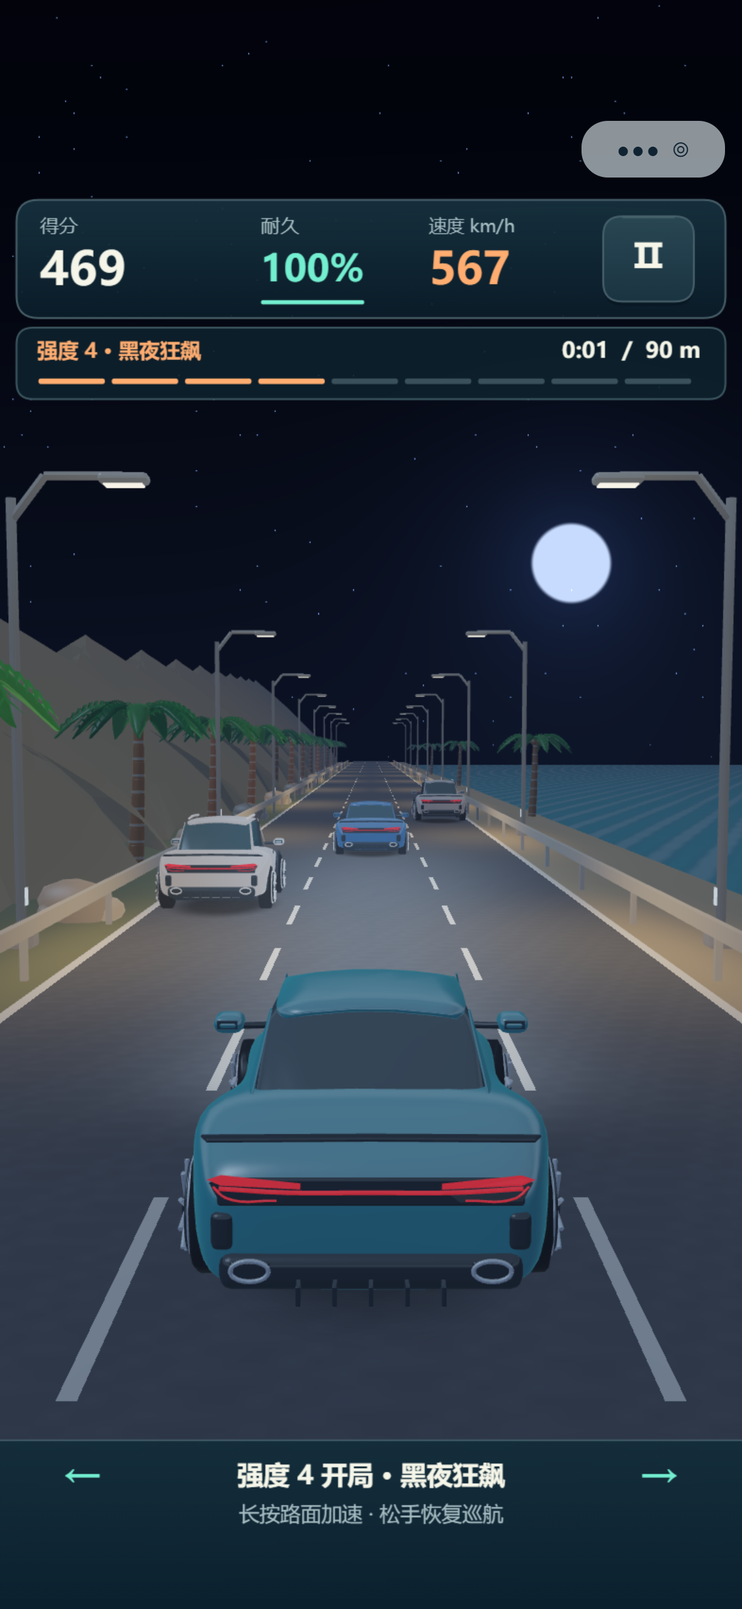
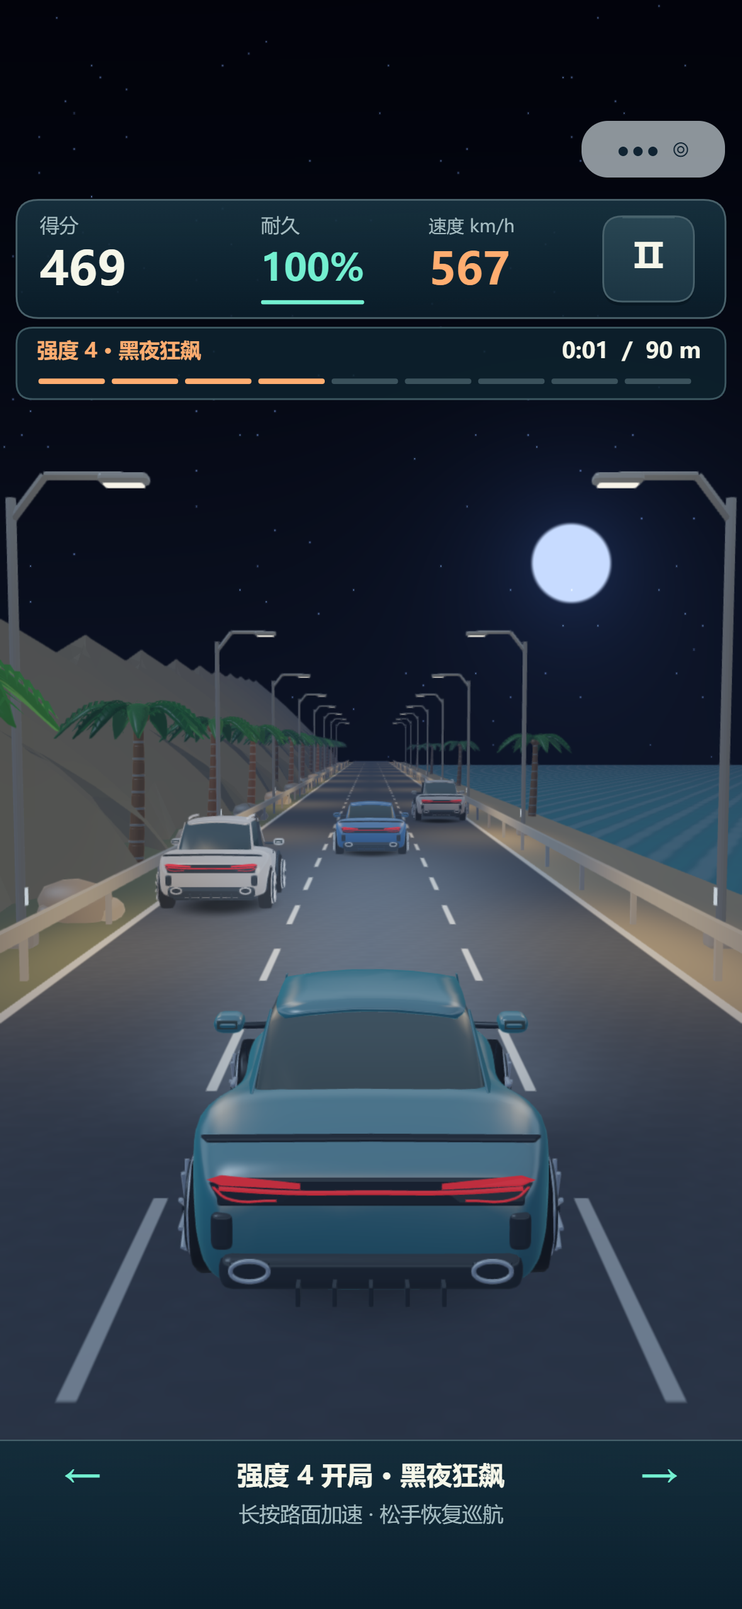
Improve antialiasing and vehicle materials on phones

diff --git a/公路之王/src/scene-renderer.js b/公路之王/src/scene-renderer.js
@@ -12,15 +12,28 @@ function cameraMatrix(eye,target,aspect){
   for(let c=0;c<4;c++)for(let r=0;r<4;r++)for(let i=0;i<4;i++)m[c*4+r]+=p[i*4+r]*v[c*4+i];
   return m;
 }
-const vertex=`attribute vec3 aPosition;attribute vec3 aNormal;uniform mat4 uCamera;uniform mediump vec3 uPosition;uniform mediump vec3 uScale;varying mediump vec3 vWorld;varying mediump vec3 vNormal;
+const vertex=`attribute vec3 aPosition;attribute vec3 aNormal;uniform mat4 uCamera;uniform mediump vec3 uPosition;uniform mediump vec3 uScale;varying highp vec3 vWorld;varying mediump vec3 vNormal;
 void main(){vWorld=aPosition*uScale+uPosition;vNormal=normalize(aNormal/uScale);gl_Position=uCamera*vec4(vWorld,1.0);}`;
-const fragment=`precision highp float;varying mediump vec3 vWorld;varying mediump vec3 vNormal;uniform vec3 uEye;uniform vec3 uColor;uniform mediump vec3 uPosition;uniform mediump vec3 uScale;uniform float uMetal;uniform float uRough;uniform float uEmission;uniform float uKind;uniform float uTravel;uniform float uNight;uniform float uDawn;uniform float uFog;uniform float uPlayerX;
+const fragment=`precision highp float;varying highp vec3 vWorld;varying mediump vec3 vNormal;uniform vec3 uEye;uniform vec3 uColor;uniform mediump vec3 uPosition;uniform mediump vec3 uScale;uniform float uMetal;uniform float uRough;uniform float uEmission;uniform float uKind;uniform float uTravel;uniform float uNight;uniform float uDawn;uniform float uFog;uniform float uPlayerX;uniform float uSurface;
 float hash(vec2 p){return fract(sin(dot(p,vec2(127.1,311.7)))*43758.5453);}
 float noise(vec2 p){vec2 i=floor(p),f=fract(p);f=f*f*(3.-2.*f);return mix(mix(hash(i),hash(i+vec2(1.,0.)),f.x),mix(hash(i+vec2(0.,1.)),hash(i+vec2(1.,1.)),f.x),f.y);}
 void main(){vec3 n=normalize(vNormal),view=normalize(uEye-vWorld),light=normalize(vec3(-.6,.85,.3));vec3 base=uColor;float rough=uRough,metal=uMetal;float alpha=1.;
-if(uKind>0.5&&uKind<1.5){float grain=mix(.5,noise(vec2(vWorld.x*7.,(vWorld.z+uTravel)*7.)),1.-smoothstep(12.,45.,length(uEye-vWorld)));base=vec3(.105,.115,.125)*(.94+grain*.10);float lane=abs(abs(vWorld.x)-1.55);float dash=step(3.,mod(-vWorld.z-uTravel,6.));if(lane<.055&&dash>.5||abs(vWorld.x)>4.48)base=vec3(.84,.82,.71);rough=.9;}
+if(uKind>0.5&&uKind<1.5){
+float dist=length(uEye-vWorld);
+float grain=mix(.5,noise(vec2(vWorld.x*7.,(vWorld.z+uTravel)*7.)),1.-smoothstep(12.,45.,dist));
+base=vec3(.080,.095,.112)*(.96+grain*.08);
+float edgeWidth=max(.009,dist*.00045),dashWidth=max(.03,dist*.003);
+#ifdef HAS_DERIVATIVES
+edgeWidth=max(edgeWidth,fwidth(vWorld.x)*.75);dashWidth=max(dashWidth,fwidth(vWorld.z)*.75);
+#endif
+float lane=1.-smoothstep(.052-edgeWidth,.052+edgeWidth,abs(abs(vWorld.x)-1.55));
+float phase=mod(-vWorld.z-uTravel,6.);
+float dash=smoothstep(3.-dashWidth,3.+dashWidth,phase)*(1.-smoothstep(6.-dashWidth,6.,phase));
+float outer=smoothstep(4.48-edgeWidth,4.48+edgeWidth,abs(vWorld.x));
+base=mix(base,vec3(.79,.80,.72),max(lane*dash,outer));rough=.9;
+}
 if(uKind>1.5&&uKind<2.5){float wave=sin(vWorld.x*1.8+uTravel*.03)*sin(vWorld.z*.8+uTravel*.06);n=normalize(vec3(wave*.08,1.,cos(vWorld.x*3.+vWorld.z)*.11));base=vec3(.025,.19,.24);rough=.16;metal=.35;}
-if(uKind>2.5&&uKind<3.5){float r=length((vWorld.xz-uPosition.xz)/uScale.xz);gl_FragColor=vec4(.015,.02,.025,.38*(1.-smoothstep(.45,1.,r)));return;}
+if(uKind>2.5&&uKind<3.5){float r=length((vWorld.xz-uPosition.xz)/uScale.xz);gl_FragColor=vec4(.008,.014,.022,.54*(1.-smoothstep(.25,1.,r)));return;}
 vec3 h=normalize(light+view);float diffuse=max(dot(n,light),0.);float spec=pow(max(dot(n,h),0.),mix(110.,7.,rough));float fresnel=pow(1.-max(dot(n,view),0.),5.);
 vec3 ambient=mix(vec3(.14,.19,.24),vec3(.56,.69,.76),n.y*.5+.5);
 vec3 color=base*(ambient*.75+vec3(1.,.73,.44)*diffuse*.85)+mix(vec3(.45),base,metal)*spec*(.3+metal*.8);
@@ -44,6 +57,30 @@ nightColor+=vec3(.19,.29,.40)*band*metal*.22;
 vec3 dawnColor=base*(vec3(.43,.53,.59)+vec3(.95,.72,.50)*diffuse*.55)+vec3(.55,.66,.72)*spec*(.22+metal*.45);
 dawnColor+=environment*mix(vec3(.04),base,metal)*(.12+fresnel*.4)+base*vec3(.75,.83,1.)*beam*.18;
 color=mix(mix(color,dawnColor,uDawn),nightColor,uNight)+base*uEmission*(uKind>4.5?(uNight+uDawn*.18)*1.8:mix(.65,1.8,uNight));
+// Separate lacquer and glazing instead of lighting every surface like matte paint.
+if(uSurface>.5){
+ float nv=max(dot(n,view),0.),f=pow(1.-nv,5.);
+ float localHeight=(vWorld.y-uPosition.y)/uScale.y;
+ vec3 envDay=mix(vec3(.10,.115,.13),vec3(.48,.65,.78),smoothstep(-.20,.65,reflection.y));
+ vec3 envNight=mix(vec3(.018,.026,.038),vec3(.16,.25,.36),smoothstep(-.20,.65,reflection.y));
+ vec3 env=mix(envDay,envNight,uNight);
+ float skyRibbon=exp(-pow((reflection.y-.26)/.10,2.));
+ env+=mix(vec3(.52,.53,.48),vec3(.16,.23,.29),uNight)*skyRibbon;
+ if(uSurface>1.5){
+  float upperPane=smoothstep(.95,1.6,localHeight);
+  vec3 glassSky=mix(vec3(.21,.34,.43),vec3(.055,.11,.17),uNight);
+  color=base*.22+env*(.10+f*.35)+glassSky*(.04+upperPane*.20)+vec3(.6,.72,.8)*spec*.22;
+ }else{
+  float coat=pow(max(dot(n,h),0.),96.);
+  color=color*.88+env*(.055+f*.34)+mix(vec3(.95,.82,.64),vec3(.34,.47,.61),uNight)*coat*.3;
+  color+=base*lampPool*.16*uNight;
+ }
+ float nearestLamp=vWorld.z-(mod(vWorld.z-mod(uTravel,28.)-10.+14.,28.)-14.);
+ vec3 lampLeft=normalize(vec3(-5.8,6.2,nearestLamp)-vWorld),lampRight=normalize(vec3(5.8,6.2,nearestLamp)-vWorld);
+ float lampHighlight=pow(max(dot(n,normalize(lampLeft+view)),0.),64.)+pow(max(dot(n,normalize(lampRight+view)),0.),64.);
+ color+=vec3(1.,.82,.55)*lampHighlight*uNight*.32;
+ color*=mix(.67,1.,smoothstep(.15,.85,localHeight));
+}
 float distanceToEye=length(uEye-vWorld);
 // Depth fog leaves the first fourteen metres clear and gathers low over the road.
 float lowMist=exp(-max(vWorld.y,0.)*.08);
@@ -66,6 +103,26 @@ float dawnSun=(1.-smoothstep(.030,.039,length(dawnDelta)))*.65;
 dawn=mix(dawn,vec3(1.,.91,.72),dawnSun);
 gl_FragColor=vec4(mix(mix(c,dawn,uDawn),night,uNight),1.);}`;
 
+
+// Edge-only FXAA runs after native MSAA; the Canvas HUD is composited afterwards.
+const aaFragment=`precision highp float;varying vec2 vUv;uniform sampler2D uScene;uniform vec2 uTexel;
+void main(){
+ vec3 rgbM=texture2D(uScene,vUv).rgb;vec3 weights=vec3(.299,.587,.114);
+ float m=dot(rgbM,weights);
+ float nw=dot(texture2D(uScene,vUv+vec2(-1.,1.)*uTexel).rgb,weights);
+ float ne=dot(texture2D(uScene,vUv+vec2(1.,1.)*uTexel).rgb,weights);
+ float sw=dot(texture2D(uScene,vUv+vec2(-1.,-1.)*uTexel).rgb,weights);
+ float se=dot(texture2D(uScene,vUv+vec2(1.,-1.)*uTexel).rgb,weights);
+ float lo=min(m,min(min(nw,ne),min(sw,se))),hi=max(m,max(max(nw,ne),max(sw,se)));
+ if(hi-lo<max(.035,hi*.12)){gl_FragColor=vec4(rgbM,1.);return;}
+ vec2 dir=vec2(-((nw+ne)-(sw+se)),(nw+sw)-(ne+se));
+ float reduce=max((nw+ne+sw+se)*.03125,.0078125);
+ dir=clamp(dir/(min(abs(dir.x),abs(dir.y))+reduce),vec2(-4.),vec2(4.))*uTexel;
+ vec3 a=.5*(texture2D(uScene,vUv-dir/6.).rgb+texture2D(uScene,vUv+dir/6.).rgb);
+ vec3 b=a*.5+.25*(texture2D(uScene,vUv-dir*.5).rgb+texture2D(uScene,vUv+dir*.5).rgb);
+ float l=dot(b,weights);gl_FragColor=vec4(l<lo||l>hi?a:b,1.);
+}`;
+
 function atmosphere(game){
   const clear={night:0,dawn:0,fog:0};
   if(game.mode==='menu'||!game.difficulty)return clear;
@@ -87,9 +144,14 @@ class SceneRenderer{
       this.canvas=p.createRenderCanvas();this.resizeBuffer();
       const gl=this.gl=this.canvas.getContext('webgl',{alpha:false,antialias:true,preserveDrawingBuffer:true});
       if(!gl)throw new Error('WebGL unavailable');
+      this.maxRenderSize=Math.min(gl.getParameter(gl.MAX_TEXTURE_SIZE),gl.getParameter(gl.MAX_RENDERBUFFER_SIZE));this.resizeBuffer();
       const supportsHigh=gl.getShaderPrecisionFormat(gl.FRAGMENT_SHADER,gl.HIGH_FLOAT).precision>0;
-      this.program=this.programFor(vertex,supportsHigh?fragment:fragment.replace('precision highp float','precision mediump float'));this.sky=this.programFor(skyVertex,skyFragment);
-      this.locations={};for(const name of['uCamera','uPosition','uScale','uColor','uEye','uRough','uMetal','uEmission','uKind','uTravel','uNight','uDawn','uFog','uPlayerX'])this.locations[name]=gl.getUniformLocation(this.program,name);
+      const precision=source=>supportsHigh?source:source.replace(/highp/g,'mediump');
+      this.derivativeAA=!!gl.getExtension('OES_standard_derivatives');
+      const materialSource=(this.derivativeAA?'#extension GL_OES_standard_derivatives : enable\n#define HAS_DERIVATIVES\n':'')+fragment;
+      this.program=this.programFor(precision(vertex),precision(materialSource));this.sky=this.programFor(skyVertex,skyFragment);
+      try{this.aaProgram=this.programFor(skyVertex,precision(aaFragment));this.aaTexture=gl.createTexture();}catch(error){this.aaError=String(error);this.aaProgram=null;}
+      this.locations={};for(const name of['uCamera','uPosition','uScale','uColor','uEye','uRough','uMetal','uEmission','uKind','uTravel','uNight','uDawn','uFog','uPlayerX','uSurface'])this.locations[name]=gl.getUniformLocation(this.program,name);
       this.attributes={aPosition:gl.getAttribLocation(this.program,'aPosition'),aNormal:gl.getAttribLocation(this.program,'aNormal')};
       this.skyBuffer=gl.createBuffer();gl.bindBuffer(gl.ARRAY_BUFFER,this.skyBuffer);gl.bufferData(gl.ARRAY_BUFFER,new Float32Array([-1,-1,1,-1,-1,1,-1,1,1,-1,1,1]),gl.STATIC_DRAW);
       const {manifest,binary}=await p.loadSceneData();this.models={};
@@ -104,8 +166,9 @@ class SceneRenderer{
   setView(width,height,topInset=0){this.viewWidth=width;this.viewHeight=height;this.topInset=topInset;if(this.canvas)this.resizeBuffer();}
   resizeBuffer(){
     const p=this.platform,aspect=this.viewWidth/this.viewHeight;
-    // Match phone backing pixels, with a 1.5 MP budget for mobile fill-rate.
-    const width=Math.max(540,Math.min(864,(p.width||540)*(p.ratio||1),Math.sqrt(1500000*aspect)));
+    // Match phone backing pixels, with a 2 MP budget for mobile fill-rate.
+    const limit=this.maxRenderSize||4096;
+    const width=Math.min(1080,Math.max(540,(p.width||540)*(p.ratio||1)),Math.sqrt(2000000*aspect),limit,limit*aspect);
     this.canvas.width=Math.round(width);this.canvas.height=Math.round(width/aspect);
   }
   programFor(vs,fs){const g=this.gl,program=g.createProgram();for(const [type,source]of[[g.VERTEX_SHADER,vs],[g.FRAGMENT_SHADER,fs]]){const s=g.createShader(type);g.shaderSource(s,source);g.compileShader(s);if(!g.getShaderParameter(s,g.COMPILE_STATUS))throw new Error(g.getShaderInfoLog(s));g.attachShader(program,s);}g.linkProgram(program);if(!g.getProgramParameter(program,g.LINK_STATUS))throw new Error(g.getProgramInfoLog(program));return program;}
@@ -114,15 +177,32 @@ class SceneRenderer{
   boxBuffer(){const vertices=[];for(const [n,u,v]of[[[1,0,0],[0,1,0],[0,0,1]],[[-1,0,0],[0,1,0],[0,0,-1]],[[0,1,0],[1,0,0],[0,0,-1]],[[0,-1,0],[1,0,0],[0,0,1]],[[0,0,1],[1,0,0],[0,1,0]],[[0,0,-1],[-1,0,0],[0,1,0]]]){const point=(a,b)=>n.map((x,i)=>x*.5+u[i]*a*.5+v[i]*b*.5);for(const[a,b]of[[-1,-1],[1,-1],[-1,1],[-1,1],[1,-1],[1,1]])vertices.push(...point(a,b),...n);}return this.buffer(new Float32Array(vertices));}
   mountainBuffer(){const vertices=[],rings=10,segments=20;const point=(j,i)=>{const t=j/rings,angle=i/segments*Math.PI*2,r=1-t;return[Math.cos(angle)*r*(1+.13*Math.sin(i*4.13)),Math.pow(t,.7)*(1+.12*Math.sin(i*2.1)),Math.sin(angle)*r];};for(let j=0;j<rings;j++)for(let i=0;i<segments;i++){const a=point(j,i),b=point(j,i+1),c=point(j+1,i),d=point(j+1,i+1);for(const tri of[[a,b,c],[c,b,d]]){const n=normalize(cross(tri[1].map((v,k)=>v-tri[0][k]),tri[2].map((v,k)=>v-tri[0][k])));for(const p of tri)vertices.push(...p,...n);}}return this.buffer(new Float32Array(vertices));}
   uniform(name,type,value){const g=this.gl,loc=this.locations[name];if(type==='vec')g.uniform3fv(loc,value);else g.uniform1f(loc,value);}
-  draw(batch,position,scale=[1,1,1],color=null,kind=0){const g=this.gl,m=batch.material;g.bindBuffer(g.ARRAY_BUFFER,batch.buffer);for(const[name,size,offset]of[['aPosition',3,0],['aNormal',3,12]]){const l=this.attributes[name];g.enableVertexAttribArray(l);g.vertexAttribPointer(l,size,g.FLOAT,false,24,offset);}this.uniform('uPosition','vec',position);this.uniform('uScale','vec',scale);this.uniform('uColor','vec',color||m.color||[.4,.4,.4]);this.uniform('uRough','float',m.rough==null?.7:m.rough);this.uniform('uMetal','float',m.metal||0);this.uniform('uEmission','float',m.emission||0);this.uniform('uKind','float',kind);g.drawArrays(g.TRIANGLES,0,batch.count);}
+  draw(batch,position,scale=[1,1,1],color=null,kind=0){const g=this.gl,m=batch.material;g.bindBuffer(g.ARRAY_BUFFER,batch.buffer);for(const[name,size,offset]of[['aPosition',3,0],['aNormal',3,12]]){const l=this.attributes[name];g.enableVertexAttribArray(l);g.vertexAttribPointer(l,size,g.FLOAT,false,24,offset);}this.uniform('uPosition','vec',position);this.uniform('uScale','vec',scale);this.uniform('uColor','vec',color||m.color||[.4,.4,.4]);this.uniform('uRough','float',m.rough==null?.7:m.rough);this.uniform('uMetal','float',m.metal||0);this.uniform('uEmission','float',m.emission||0);this.uniform('uKind','float',kind);this.uniform('uSurface','float',m.paint?1:/glass/i.test(m.name||'')?2:0);g.drawArrays(g.TRIANGLES,0,batch.count);}
   model(name,position,color=null,scale=1){for(const b of this.models[name]||[])this.draw(b,position,[scale,scale,scale],b.material.paint?color:null);}
+  antialias(){
+    if(!this.aaProgram||!this.aaTexture)return;
+    const g=this.gl,w=this.canvas.width,h=this.canvas.height;
+    g.activeTexture(g.TEXTURE0);g.bindTexture(g.TEXTURE_2D,this.aaTexture);
+    if(this.aaWidth!==w||this.aaHeight!==h){
+      g.texParameteri(g.TEXTURE_2D,g.TEXTURE_MIN_FILTER,g.LINEAR);g.texParameteri(g.TEXTURE_2D,g.TEXTURE_MAG_FILTER,g.LINEAR);
+      g.texParameteri(g.TEXTURE_2D,g.TEXTURE_WRAP_S,g.CLAMP_TO_EDGE);g.texParameteri(g.TEXTURE_2D,g.TEXTURE_WRAP_T,g.CLAMP_TO_EDGE);
+      // The source canvas is opaque (RGB); copy formats must agree in WebGL 1.
+      g.texImage2D(g.TEXTURE_2D,0,g.RGB,w,h,0,g.RGB,g.UNSIGNED_BYTE,null);
+      if(g.getError()!==g.NO_ERROR){this.aaError='Unable to allocate antialias texture';g.deleteTexture(this.aaTexture);this.aaTexture=null;return;}
+      this.aaWidth=w;this.aaHeight=h;
+    }
+    g.copyTexSubImage2D(g.TEXTURE_2D,0,0,0,0,0,w,h);
+    g.disable(g.DEPTH_TEST);g.disable(g.BLEND);g.useProgram(this.aaProgram);g.bindBuffer(g.ARRAY_BUFFER,this.skyBuffer);
+    const a=g.getAttribLocation(this.aaProgram,'aPosition');g.enableVertexAttribArray(a);g.vertexAttribPointer(a,2,g.FLOAT,false,0,0);
+    g.uniform1i(g.getUniformLocation(this.aaProgram,'uScene'),0);g.uniform2f(g.getUniformLocation(this.aaProgram,'uTexel'),1/w,1/h);g.drawArrays(g.TRIANGLES,0,6);
+  }
   project(point){const m=this.camera;if(!m)return null;const clip=[0,0,0,0];for(let r=0;r<4;r++)clip[r]=m[r]*point[0]+m[4+r]*point[1]+m[8+r]*point[2]+m[12+r];if(clip[3]<=0)return null;return{x:(clip[0]/clip[3]+1)*this.viewWidth/2,y:(1-clip[1]/clip[3])*this.viewHeight/2-this.topInset};}
   render(game,clock){
     if(this.status!=='ready')return false;const g=this.gl,menu=game.mode==='menu',travel=menu?clock*9:game.distance;
     const weather=atmosphere(game),night=this.night=weather.night;this.dawn=weather.dawn;this.fog=weather.fog;
     const follow=game.playerX*2.4,eye=[follow,3.3,9.3],target=[follow,1.05,-15];
     g.viewport(0,0,this.canvas.width,this.canvas.height);g.clearColor(.2,.3,.4,1);g.clear(g.COLOR_BUFFER_BIT|g.DEPTH_BUFFER_BIT);g.disable(g.DEPTH_TEST);g.useProgram(this.sky);g.bindBuffer(g.ARRAY_BUFFER,this.skyBuffer);const a=g.getAttribLocation(this.sky,'aPosition');g.enableVertexAttribArray(a);g.vertexAttribPointer(a,2,g.FLOAT,false,0,0);g.uniform1f(g.getUniformLocation(this.sky,'uAspect'),this.viewWidth/this.viewHeight);g.uniform1f(g.getUniformLocation(this.sky,'uNight'),night);g.uniform1f(g.getUniformLocation(this.sky,'uDawn'),weather.dawn);g.drawArrays(g.TRIANGLES,0,6);
-    g.enable(g.DEPTH_TEST);g.depthFunc(g.LEQUAL);g.disable(g.CULL_FACE);g.useProgram(this.program);this.camera=cameraMatrix(eye,target,this.viewWidth/this.viewHeight);g.uniformMatrix4fv(g.getUniformLocation(this.program,'uCamera'),false,this.camera);this.uniform('uEye','vec',eye);this.uniform('uTravel','float',travel);
+    g.enable(g.DEPTH_TEST);g.depthFunc(g.LEQUAL);g.disable(g.CULL_FACE);g.useProgram(this.program);this.camera=cameraMatrix(eye,target,this.viewWidth/this.viewHeight);g.uniformMatrix4fv(g.getUniformLocation(this.program,'uCamera'),false,this.camera);this.uniform('uEye','vec',eye);this.uniform('uTravel','float',travel%252);
     this.uniform('uNight','float',night);this.uniform('uDawn','float',weather.dawn);this.uniform('uFog','float',weather.fog);this.uniform('uPlayerX','float',game.playerX*3.1);
     this.draw(this.ground,[70,-.6,-120],[65,1,190],[.025,.18,.25],2);this.draw(this.ground,[-18,-.08,-130],[14,1,200],[.19,.20,.105]);this.draw(this.ground,[6.6,-.07,-130],[2,1,200],[.40,.33,.21]);this.draw(this.ground,[0,0,-140],[4.65,1,210],null,1);
     for(let i=0;i<11;i++)this.draw(this.mountain,[-17-i*.9,0,-25-i*26],[11+i*.6,8+i*.9,22],[.28,.245,.16]);
@@ -136,6 +216,7 @@ class SceneRenderer{
     g.depthMask(true);g.disable(g.BLEND);
     for(const car of cars){if(car.z< -5||car.z>180)continue;const x=car.x*3.1,z=-car.z;this.model(car.kind==='barrier'?'barrier':car.threat?'player':car.id%2?'suv':'player',[x,.035,z],car.threat?[.76,.18,.035]:car.id%2?[.48,.51,.53]:[.035,.12,.30]);}
     if(!menu)this.model('player',[game.playerX*3.1,.035,0],[.012,.36,.41]);
+    this.antialias();
     return true;
   }
 }

diff --git a/tests/platform.test.js b/tests/platform.test.js
@@ -40,10 +40,10 @@ test('missing native scene file rejects instead of returning empty geometry',asy
   await assert.rejects(platform.loadSceneData(),/missing scene/);
 });
 
-test('Douyin canvas uses CSS dimensions, caps backing scale at two and respects safe area', () => {
+test('Douyin canvas uses CSS dimensions, caps backing scale at three and respects safe area', () => {
   const { platform, canvas } = fixture();
-  assert.equal(platform.width, 390); assert.equal(platform.height, 844); assert.equal(platform.ratio, 2);
-  assert.equal(canvas.width, 780); assert.equal(canvas.height, 1688);
+  assert.equal(platform.width, 390); assert.equal(platform.height, 844); assert.equal(platform.ratio, 3);
+  assert.equal(canvas.width, 1170); assert.equal(canvas.height, 2532);
   assert.equal(platform.top, 47); assert.equal(platform.bottom, 34);
   const fallback = fixture({ windowWidth: 0, windowHeight: 0, screenWidth: 375, screenHeight: 667, pixelRatio: 1, safeArea: undefined }).platform;
   assert.equal(fallback.width, 375); assert.equal(fallback.height, 667);

diff --git a/tests/mobile-layout.test.js b/tests/mobile-layout.test.js
@@ -11,9 +11,9 @@ test('tall phone uses safe-area top and bottom with working bottom-area gestures
  a.touchStart(event(270,y));a.update(.35);assert.equal(a.game.throttle,true);a.touchEnd(event(270,y));assert.equal(a.game.throttle,false);
 });
 test('render buffer follows phone pixels and retains a mobile pixel budget',()=>{
- for(const [width,height,ratio]of[[393,852,2],[430,932,3],[768,1024,2]]){
+ for(const [width,height,ratio]of[[393,852,3],[430,932,3],[768,1024,2]]){
   const s=new Scene({width,height,ratio});s.canvas={};s.setView(540,height/width*540,50);
-  assert.ok(s.canvas.width>540);assert.ok(s.canvas.width<=864);assert.ok(s.canvas.width*s.canvas.height<1502000);
+  assert.ok(s.canvas.width>540);assert.ok(s.canvas.width<=1080);assert.ok(s.canvas.width*s.canvas.height<2002000);
   assert.ok(Math.abs(s.canvas.width/s.canvas.height-width/height)<.002);
  }
 });

diff --git a/公路之王/src/platform.js b/公路之王/src/platform.js
@@ -10,7 +10,7 @@ module.exports = function createPlatform(api) {
   const canvas = api.createCanvas(), info = api.getSystemInfoSync();
   const width = info.windowWidth || info.screenWidth || 375;
   const height = info.windowHeight || info.screenHeight || 667;
-  const ratio = Math.min(info.pixelRatio || 1, 2);
+  const ratio = Math.min(info.pixelRatio || 1, 3);
   canvas.width = Math.round(width * ratio); canvas.height = Math.round(height * ratio);
   const safe = info.safeArea || {top:0,bottom:height};
   let top=Math.max(30,safe.top||0);

diff --git a/preview/browser-platform.js b/preview/browser-platform.js
@@ -5,7 +5,7 @@
   const phone = window.innerWidth <= 480;
   const width = phone ? window.innerWidth : Math.min(395, window.innerWidth - 32);
   const height = phone ? window.innerHeight : Math.max(480, Math.min(852, window.innerHeight - 64));
-  const ratio = Math.min(window.devicePixelRatio || 1, 2);
+  const ratio = Math.min(window.devicePixelRatio || 1, 3);
   canvas.style.width = width + 'px';
   canvas.style.height = height + 'px';
   canvas.width = Math.round(width * ratio);

diff --git a/公路之王/src/difficulty-config.js b/公路之王/src/difficulty-config.js
@@ -17,7 +17,7 @@
 // | `maxActiveObstacles` | 同时存在的前方有效障碍上限，整数，至少 2
 module.exports={
   // 开局强度：1–9。4/5 直接黑夜，6–9 直接清晨雾景。
-  "startTier":1,
+  "startTier":2,
   "stages": [
     {
       "label": "轻松起步",

diff --git a/tools/package_douyin_demo.py b/tools/package_douyin_demo.py
@@ -103,7 +103,7 @@ report = {
     'files':names,
     'zipIntegrity':'passed',
     'platform':'Douyin native WebGL 3D scene with Blender geometry and Canvas 2D HUD',
-    'verification':'74 Node tests; full-window phone rendering, capsule-safe compact HUD, DPR-aware buffer, night reflections, bottom gestures and low-precision shader fallback verified; nine configurable stages, night tiers 4–5 and dawn fog tiers 6–9, adjustable density, gradual transitions, high-speed visible obstacles and two-size WebGL dawn rendering verified; configurable starting tiers, zeroed run statistics and direct tier-four night start verified; configurable tier-four night transition, Blender streetlamp and two-size WebGL night scene verified; pulse skill removed; former skill area swipe/hold and two-size driving UI checks; including randomized merge completion, direction, warning timing and short reaction distance checks; six seeded 120-second runs of the shipped difficulty cliff (easy tutorial, hard tier two, escalating later tiers); sidebar capability, navigation failure and hot-start checks; sidebar browser UI at 390x844 and 320x568 with mocked host APIs; collision audio single playback and mute checks; extreme configured-speed browser spawning and collision checks, configurable tier durations and hazard parameters, nine difficulty tiers, persistent WebAudio engine playback and 15-second PCM continuity checks, traffic merge clearance, collision stop/recovery and WebGL rendering. See research/blender-preview and README for scope.',
+    'verification':'74 Node tests; edge FXAA and pixel comparison, separate paint/glass shading, DPR 3 output with 2 MP scene budget, derivative and precision fallback and 2048 GPU limits verified; full-window phone rendering, capsule-safe compact HUD, DPR-aware buffer, night reflections, bottom gestures and low-precision shader fallback verified; nine configurable stages, night tiers 4–5 and dawn fog tiers 6–9, adjustable density, gradual transitions, high-speed visible obstacles and two-size WebGL dawn rendering verified; configurable starting tiers, zeroed run statistics and direct tier-four night start verified; configurable tier-four night transition, Blender streetlamp and two-size WebGL night scene verified; pulse skill removed; former skill area swipe/hold and two-size driving UI checks; including randomized merge completion, direction, warning timing and short reaction distance checks; six seeded 120-second runs of the shipped difficulty cliff (easy tutorial, hard tier two, escalating later tiers); sidebar capability, navigation failure and hot-start checks; sidebar browser UI at 390x844 and 320x568 with mocked host APIs; collision audio single playback and mute checks; extreme configured-speed browser spawning and collision checks, configurable tier durations and hazard parameters, nine difficulty tiers, persistent WebAudio engine playback and 15-second PCM continuity checks, traffic merge clearance, collision stop/recovery and WebGL rendering. See research/blender-preview and README for scope.',
     'notVerified':['Blender art version in Douyin IDE simulator','Android/iOS phone','live upload and publication','phone performance','audio listening'],
 }
 (target / 'delivery-manifest.json').write_text(json.dumps(report,ensure_ascii=False,indent=2),encoding='utf-8')

diff --git a/docs/mobile-rendering.md b/docs/mobile-rendering.md
@@ -1,14 +1,17 @@
 # 手机画面优化
 
-针对 1179×2556 真机截图反馈进行调整。默认从强度 1 开始，夜景预览测试临时使用强度 4，不修改正式配置。
+针对 1179×2556 真机截图反馈进行调整。当前保留用户设置，从强度 2 开始，夜景预览测试临时使用强度 4，不修改正式配置。
 
 - 道路场景覆盖整个窗口，界面不再按 540×960 在长屏中垂直居中。顶部保留系统安全区及胶囊区域，底部提示栏贴近底部安全区；刘海和胶囊后仍绘制天空。
 - 原生适配优先读取 `tt.getMenuButtonLayout()` 的有效 `bottom`，增加 6 CSS 像素间距；接口缺失、异常或返回无效数据时回退到系统安全区。参考[抖音官方安全区域适配说明](https://developer.open-douyin.com/docs/resource/zh-CN/mini-game/develop/guide/game-engine/godot/adaptation-checklist)。
 - 合并时间、距离和强度信息，底部提示由 116 缩至 76 个逻辑像素；开局、升级、碰撞提示共用底栏，移除道路上方重复的引导条。底栏继续支持左右滑动与长按。
-- WebGL 缓冲按手机实际画布像素设置，宽度最高 864，总像素预算约 150 万；393×852、画布 DPR 2 时为 786×1704，原先固定 540×960。维持正确比例，不纵向拉长车辆。
+- WebGL 缓冲按手机实际画布像素设置，主画布 DPR 上限提高到 3，三维缓冲宽度最高 1080、总像素预算约 200 万，并遵守 GPU 最大纹理/渲染缓冲尺寸；393×852、DPR 3 时为 960×2082（上一版 786×1704，最初固定 540×960）。维持正确比例，不纵向拉长车辆。
 - 透视近裁面由 0.12 米调整为 1 米、远裁面为 380 米，改善近处薄车灯与车身的深度分辨率。相机位置和画幅调整后，两侧换道时主车保持在画面内。
-- 夜间车漆增加冷色环境反光；道路颗粒降低对比度并在远处淡出，减少闪烁。保留现有 Blender 模型，不新增模型包体。
+- 车漆清漆层、玻璃和普通材质分开着色，增加天空反射、玻璃上下渐变、随路灯变化的高光及车底接触阴影；道路颗粒降低对比度并在远处淡出，车道线使用屏幕导数平滑边缘。保留现有 Blender 模型，不新增模型包体。
+- 在原生多重采样之后增加边缘检测抗锯齿（FXAA），Canvas 界面在其后合成，避免文字被滤镜模糊。分配纹理失败则保留原渲染；缺少导数扩展时使用按距离估算的车道线平滑。着色器世界坐标优先高精度，较低配置回退到中精度；循环路面位移归一化，避免长距离导致低精度溢出。
 
-验证：74 项 Node 测试通过；390×844、320×568 常规浏览器回归，以及 393×852 / DPR 3 的夜景、晨雾、低精度片元着色器、胶囊占位、暂停、换道及长按检查。结果为 `research/blender-preview/mobile-ui.json`；`mobile-night-393.png` 为优化后模拟截图。前后对照由 `tools/verify_mobile_preview.cjs` 生成，其中历史版本对照需要仓库提交 `15bd045`。
+验证：74 项 Node 测试通过；390×844、320×568 常规浏览器回归，以及 393×852 / DPR 3 的夜景、晨雾、低精度片元着色器、无导数扩展、无抗锯齿纹理、2048 尺寸限制、胶囊占位、暂停、换道及长按检查。结果为 `research/blender-preview/mobile-ui.json`；`mobile-night-393.png` 为优化后模拟截图。前后对照由 `tools/verify_mobile_preview.cjs` 生成，其中历史版本对照需要仓库提交 `23acaee`。
 
 浏览器模拟不能确认手机 GPU 性能或宿主真实返回值。本次尚未用手机重新运行，需重新编译并真机预览确认。
+
+本次抗锯齿开启/关闭的像素比较确认滤镜生效，且平均色差小于 1 个 8 位通道值；该检查不能证明主观画质或真实手机帧率。FXAA 复制纹理约增加 6 MB 显存，分辨率提高会增加填充开销；尚未获取真机帧率数据。

diff --git a/docs/difficulty-config.md b/docs/difficulty-config.md
@@ -4,7 +4,7 @@
 
 ## 选择开局强度
 
-修改文件顶部的 `startTier`，可选整数 1–9。当前配置 `"startTier": 1`。例如 `"startTier": 4` 表示直接从强度 4 的起始速度和黑夜场景开始。首页会显示当前开局强度。
+修改文件顶部的 `startTier`，可选整数 1–9。当前配置 `"startTier": 2`。例如 `"startTier": 4` 表示直接从强度 4 的起始速度和黑夜场景开始。首页会显示当前开局强度。
 
 选择任意强度时，从该档第 0 秒开始；前八档持续满该档 `durationSeconds` 后进入下一档，强度 9 无限持续。生存时间、距离和得分仍从 0 开始，重新挑战仍使用同一个开局强度。省略该字段按 1 处理。4/5 直接进入夜间，6–9 直接进入清晨雾景。
 
